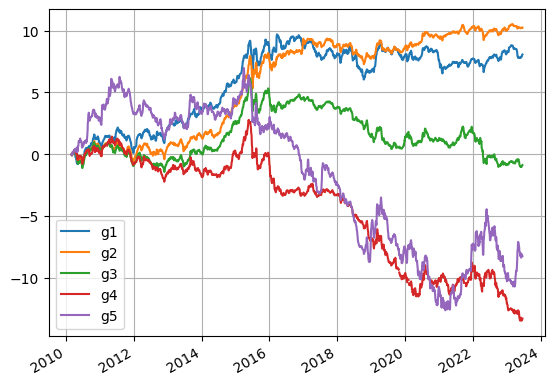
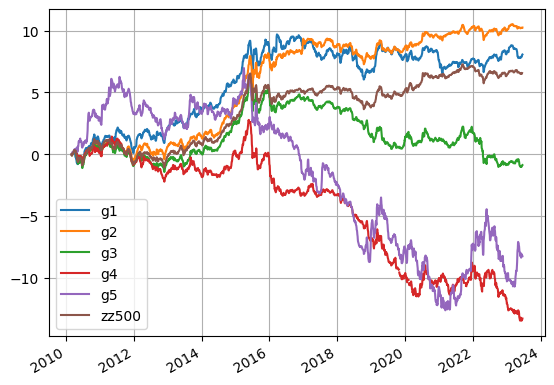
benchmark

diff --git a/index.html b/index.html
@@ -5,8 +5,8 @@
     <title>因子看板</title>
 </head>
 <body>
-    <p style="color:red;font-size:50px">020 mmt_time_rank_M</p>
-    <p style="color:black;font-size:20">11.98%</p>    
+    <p style="color:red;font-size:50px">020</p>
+    <p style="color:black;font-size:20">+11.98% mmt_time_rank_M</p>    
     <img src="factor_pics/ic_mmt_time_rank_M.png">
     <img src="factor_pics/group_mmt_time_rank_M.png">
 
@@ -82,7 +82,8 @@
     <img src="factor_pics/ic_mmt_normal_A.png">
     <img src="factor_pics/group_mmt_normal_A.png">
     
-    <p style="color:red;font-size:50px">001 mmt_normal_M</p>
+    <p style="color:red;font-size:50px">001</p>
+    <p style="color:black;font-size:20">-29.13% mmt_normal_M</p>    
     <img src="factor_pics/ic_mmt_normal_M.png">
     <img src="factor_pics/group_mmt_normal_M.png">
 </body>
